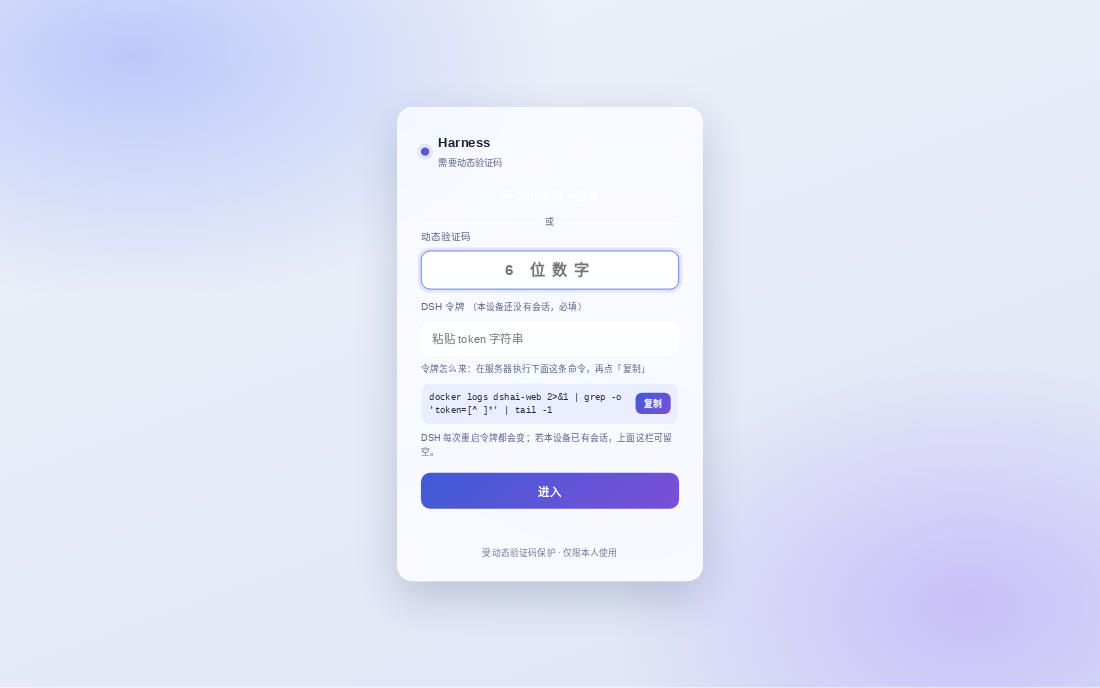
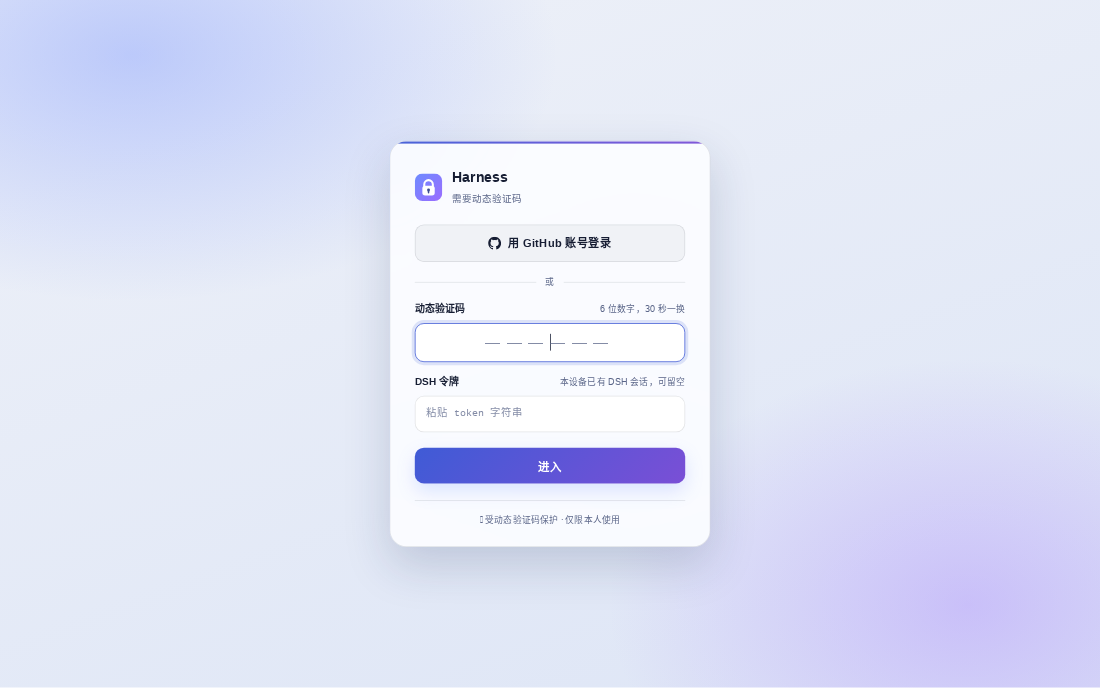
docs: 换成 1.7.3 的真实截图（登录页 + 后台页）
登录页那张换成浅色偏好下的实拍，正是这次修掉的白字位置（GitHub
按钮现在的对比度 14.99:1）；后台页头部版本号随之更新为 v1.7.3。
README 的登录页说明与「常见坑」补一行：样式必须前景/底色成对。

Changed region(s): [[0.34, 0.1526, 0.6491, 0.8547]]

diff --git a/README.md b/README.md
@@ -13,9 +13,9 @@
 
 把**只肯监听回环**的 DSH，安全地接到公网 —— 顺便把远端访问会踩的五个坑一次填平。
 
-<img src="docs/login.png" width="820" alt="dshai-gate 登录页：动态验证码 + DSH 令牌">
+<img src="docs/login.png" width="820" alt="dshai-gate 登录页：GitHub 登录按钮 + 动态验证码 + DSH 令牌">
 
-<sub>登录页（1.7.2 实拍）：动态验证码（TOTP）+ DSH 令牌。已有会话时令牌可留空，没有时会自动变成必填；1.7.0 起也可以改用 GitHub 账号登录，图里最上面那个按钮就是。</sub>
+<sub>登录页（1.7.3 实拍）：上面是按需出现的 GitHub 登录按钮，下面是动态验证码（TOTP）与 DSH 令牌。已有会话时令牌可留空，没有时会自动变成必填。</sub>
 
 </div>
 
@@ -133,7 +133,7 @@ location / {
 
 - 动态码为标准 **RFC 6238**（HMAC-SHA1 / 30 秒 / 6 位），与 Google Authenticator、Microsoft Authenticator、Aegis、1Password、Bitwarden 等通用
 - 会话为服务端 **HMAC 签名 Cookie**：`HttpOnly; Secure; SameSite=Lax`，默认 30 天
-- 登录页是单文件内嵌 HTML（**深色玻璃拟态、跟随系统深浅色、6 位码满位自动提交、`autocomplete="one-time-code"` 支持手机自动填码、取令牌命令一键复制**）
+- 登录页是单文件内嵌 HTML（**深色玻璃拟态、跟随系统深浅色、6 位码满位自动提交、`autocomplete="one-time-code"` 支持手机自动填码、取令牌命令一键复制**）；1.7.3 起前景色与底色**成对定义**（浅色偏好下不再出现白字白底），并补了窄屏与「减少动态效果」两段媒体查询
 - **1.7.0 起，动态码开关与 GitHub 登录可以在后台页里改**，不用进服务器改环境变量；**关掉的登录方式在前台登录页会自动隐藏**（没有动态码就不显示那个输入框，没有 GitHub 就不显示那个按钮）
 
 ### 防爆破（四层）
@@ -344,6 +344,7 @@ bash scripts/set-password.sh    # 设置口令（明文不落盘、不进 shell 
 | **页面突然点不动、接口全 401，但登录页本身还能开** | 门禁会话还有效，DSH 自己那层已经失效 | 刷新页面 → 回到登录页 → 填 DSH 令牌重新配对（1.6.0 起导航会自动回登录页，见[会话失效时会怎样](#会话失效时会怎样)） |
 | 日志里**所有**「上游错误」的 IP 都是 `127.0.0.1` | 1.6.0 之前记的是**出站**请求，其 `X-Forwarded-For` 末尾是 nginx 自己 | 升级到 1.6.0（已改为用入站请求取 IP，安全日志才有归因） |
 | 后台页与日志时间比本地**早 8 小时** | 容器时区是 UTC，且镜像里没有 zoneinfo | 1.6.0 起时区库已内嵌，设 `TZ`（compose 默认 `Asia/Shanghai`）即可 |
+| 系统是**浅色**偏好时，登录页上的按钮**白字看不见** | 样式只给了 `color` 没给 `background`（旧版 `@media (prefers-color-scheme: light){a.go{color:#fff}}` 就是如此），白字直接压在白卡片上，对比度 1:1 | 1.7.3 起前景/底色成对写（`color:var(--fg)` 配 `background:var(--surface)`），浅色实测 14.99:1；`main_test.go` 的 `TestLoginGithubButtonCarriesOwnColors` 会在只给颜色时让测试失败 |
 | 把自己锁在门外 | 忘了动态码 / 丢了手机 | 在**服务器上**重跑 `scripts/set-totp.sh` 换新密钥；若已配好 GitHub 登录，也可用 GitHub 账号进去 |
 | 后台页改了设置（GitHub 配置、动态码开关），**重启后又变回去** | `GATE_STATE` 所在目录容器写不进去（镜像内以 65534 运行） | 宿主上 `mkdir -p /opt/dshai/gate-data && chown 65534:65534 /opt/dshai/gate-data`，再重建门禁容器；后台页会显示「改动只在内存里生效」的提醒 |
 | 想关掉动态码，后台却拒绝并提示「没改」 | 关掉之后一种能用的登录方式都不剩（GitHub 没配全 / 没填白名单） | 先把 GitHub 登录配全并验证能进，再关动态码 —— 这是有意为之 |
